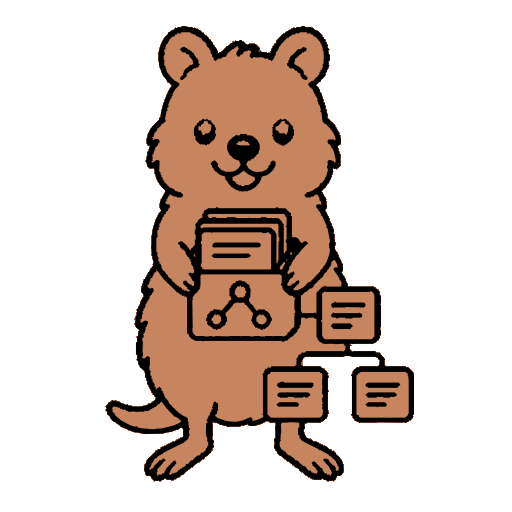
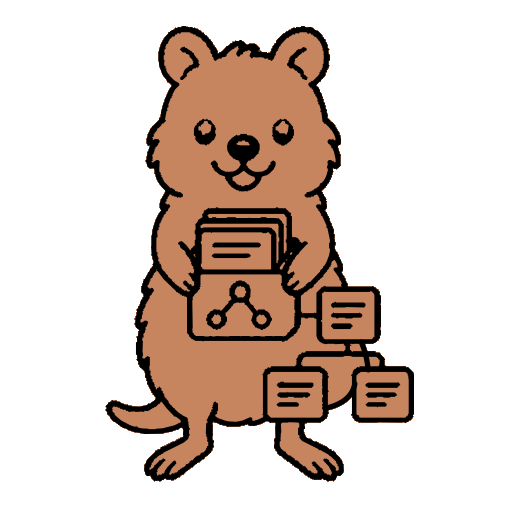
The Keep quokka has its whole body
The knowledge_system pose drew no outline on the quokka's right flank behind
the card tree, so the fill script coloured that hip as background and the
quokka looked cut away on the site and in the app. One added path closes the
silhouette; fills and masks are regenerated from it.

Changed region(s): [[0.5938, 0.6562, 0.75, 0.8125]]

diff --git a/CHANGELOG.md b/CHANGELOG.md
@@ -108,6 +108,10 @@ and this project adheres to [Semantic Versioning](https://semver.org/spec/v2.0.0
   Claude FM is no longer started again a moment later.
 - **No sidebar footer for Settings alone.** With Files, Librarian, and
   Feedback hidden, the footer goes away; Settings is still in the titlebar.
+- **The "Keep" quokka has its whole body.** The quokka holding the file stack
+  was missing the outline of its side behind the little card tree, so the
+  hip between the cards showed as background in the app and on rotli.co. The
+  side now runs behind the cards and closes at the hip.
 
 ## [1.7.1] - 2026-09-30
 
